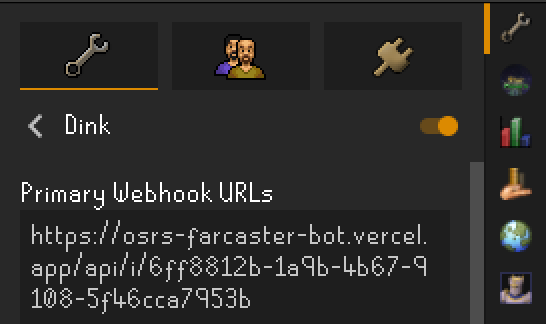
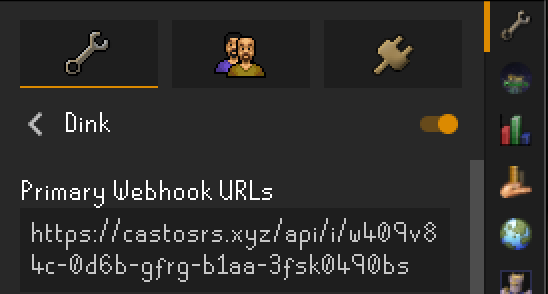
working but content parsing needs fixed

diff --git a/src/app/Screens/Home/index.tsx b/src/app/Screens/Home/index.tsx
@@ -380,15 +380,15 @@ const Home = () => {
           </div>
           {user.signer_uuid && (
             <div className="mb-4 w-full flex flex-col items-center">
-              <span className="text-xs text-gray-700 font-medium mb-1">Copy this link and paste it in the RuneLite Dink plugin Primary Webhook URL:</span>
+              <span className="text-xs text-gray-700 font-medium mb-1">Copy your secret link and paste it in the RuneLite Dink plugin Primary Webhook URL:</span>
               <span className="font-mono text-sm bg-gray-100 rounded px-2 py-1 select-all break-all flex items-center gap-1">
-                {`https://osrs-farcaster-bot.vercel.app/api/i/${user.signer_uuid}`}
+                {`https://castosrs.xyz/api/i/${user.signer_uuid}`}
                 <button
                   type="button"
                   aria-label={linkCopied ? 'Copied!' : 'Copy link'}
                   className="ml-1 p-1 rounded hover:bg-gray-200 focus:outline-none focus:ring-2 focus:ring-blue-400"
                   onClick={async () => {
-                    await navigator.clipboard.writeText(`https://osrs-farcaster-bot.vercel.app/api/i/${user.signer_uuid}`);
+                    await navigator.clipboard.writeText(`https://castosrs.xyz/api/i/${user.signer_uuid}`);
                     setLinkCopied(true);
                     setTimeout(() => setLinkCopied(false), 1200);
                   }}
@@ -406,12 +406,19 @@ const Home = () => {
                 </button>
               </span>
             <div className="mt-4 w-full flex flex-col items-center">
-              <span className="text-xs text-gray-700 font-medium mb-2">Screenshot showing where to paste the webhook URL:</span>
-              <img 
+              <div className="flex items-center gap-2 p-3 bg-amber-50 border border-amber-200 rounded-lg mb-2">
+                <svg className="w-4 h-4 text-amber-600 flex-shrink-0" fill="currentColor" viewBox="0 0 20 20" aria-hidden="true">
+                  <path fillRule="evenodd" d="M8.257 3.099c.765-1.36 2.722-1.36 3.486 0l5.58 9.92c.75 1.334-.213 2.98-1.742 2.98H4.42c-1.53 0-2.493-1.646-1.743-2.98l5.58-9.92zM11 13a1 1 0 11-2 0 1 1 0 012 0zm-1-8a1 1 0 00-1 1v3a1 1 0 002 0V6a1 1 0 00-1-1z" clipRule="evenodd" />
+                </svg>
+                <span className="text-xs text-amber-800 font-medium">Do not share or show this link to anyone!</span>
+              </div>
+              <Image 
                 src="/dink-paste-url-screenshot.png" 
                 alt="Screenshot showing RuneLite Dink plugin webhook URL configuration"
+                width={500}
+                height={300}
                 className="max-w-full h-auto rounded-lg border border-gray-200 shadow-sm"
-                style={{ maxWidth: '500px' }}
+                priority
               />
             </div>
             </div>

diff --git a/src/app/api/i/[signer_uuid]/route.ts b/src/app/api/i/[signer_uuid]/route.ts
@@ -63,10 +63,10 @@ export async function POST(req: NextRequest, { params }: { params: { signer_uuid
     const { signer_uuid } = params;
 
     // For now, use placeholder text - you can customize this based on payload
-    let castText = payload.content || "Hello from OSRS Farcaster Bot! 🎮";
-    if (payload.type) {
-      castText = payload.type + "\n" + castText;
-    }
+    let castText = payload.content || "🎮 Event reported from OSRS Farcaster Bot";
+    // if (payload.type) {
+    //   castText = payload.type + "\n" + castText;
+    // }
 
     let hash = null;
     try {
@@ -92,9 +92,6 @@ export async function POST(req: NextRequest, { params }: { params: { signer_uuid
     }
 
     const response = {
-      signer_uuid: params.signer_uuid,
-      payload,
-      file: fileInfo,
       status: 'received',
       farcaster_cast_hash: hash
     };
